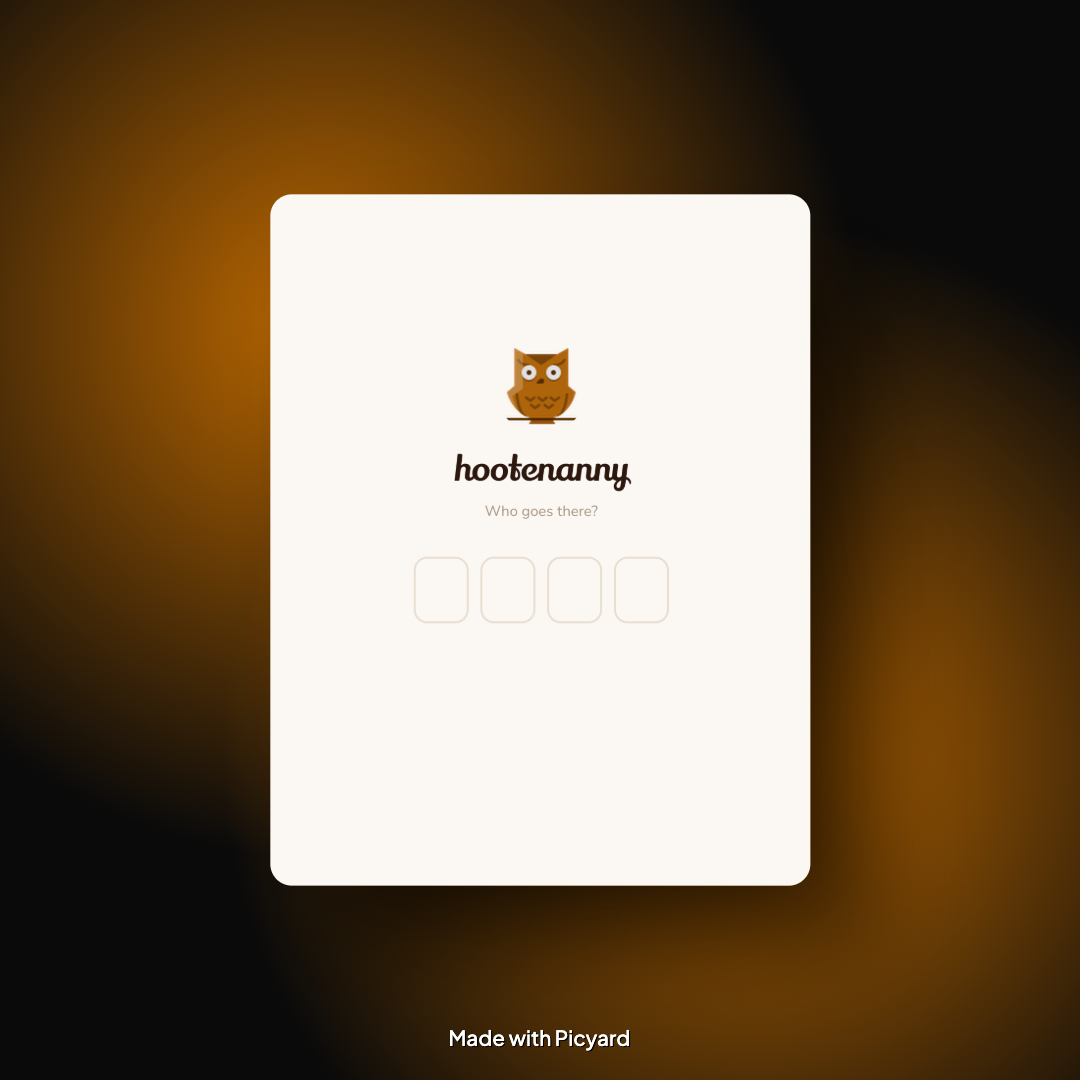
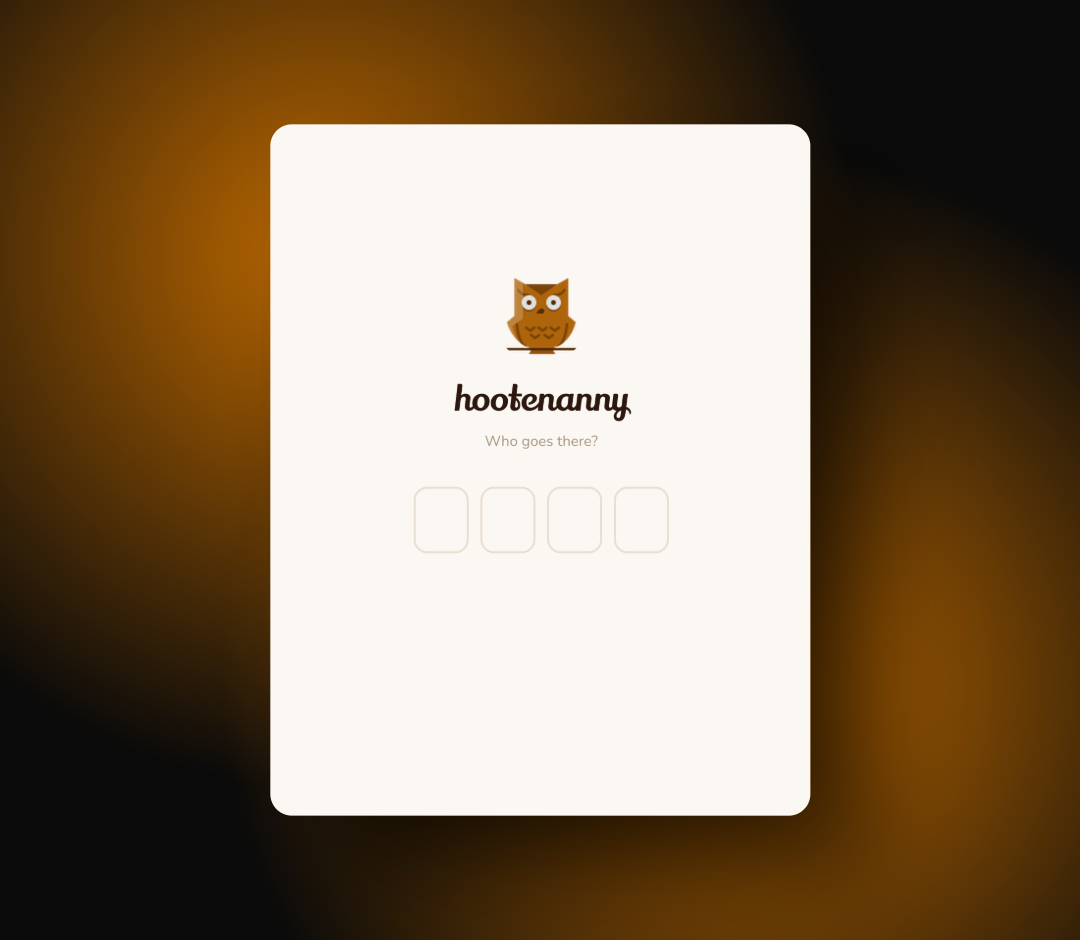
Rework Hootenanny page: tighter flow, captions, de-watermarked screenshots

diff --git a/src/app/projects/hootenanny/page.tsx b/src/app/projects/hootenanny/page.tsx
@@ -32,6 +32,25 @@ function TechTag({ children }: { children: React.ReactNode }) {
   )
 }
 
+function Screenshot({
+  src,
+  alt,
+  caption,
+}: {
+  src: typeof eventPreviewImg
+  alt: string
+  caption: string
+}) {
+  return (
+    <figure className="mt-8">
+      <Image src={src} alt={alt} className="mx-auto w-full max-w-md rounded-2xl" />
+      <figcaption className="mt-3 text-center text-sm text-zinc-500 dark:text-zinc-500">
+        {caption}
+      </figcaption>
+    </figure>
+  )
+}
+
 export default function Hootenanny() {
   return (
     <Container className="mt-9 sm:mt-16">
@@ -41,18 +60,16 @@ export default function Hootenanny() {
         </h1>
         <p className="mt-6 text-base text-zinc-600 dark:text-zinc-400">
           A playful event invitation web app inspired by Apple Invites. Spin up
-          a beautiful invite in under a minute, share a link, and watch RSVPs
-          roll in, with no accounts, no app store, and no fuss.
+          a beautiful invite in under a minute, share a link, and watch the
+          RSVPs roll in &mdash; no accounts, no app store, no fuss.
         </p>
       </header>
 
-      <div className="mt-12 flex justify-center">
-        <Image
-          src={eventPreviewImg}
-          alt="A finished Hootenanny invite, ready to share"
-          className="w-full max-w-lg rounded-2xl"
-        />
-      </div>
+      <Screenshot
+        src={eventPreviewImg}
+        alt="A finished Hootenanny invite, ready to share"
+        caption="A finished invite, ready to share."
+      />
 
       <div className="mt-16">
         <section>
@@ -61,10 +78,10 @@ export default function Hootenanny() {
           </h2>
           <p className="mt-4 text-base leading-7 text-zinc-600 dark:text-zinc-400">
             Apple Invites is beautiful, but it only works if every guest has an
-            iPhone, and I wanted to send an invite to my daughter&apos;s dance
+            iPhone. I wanted to send an invite to my daughter&apos;s dance
             recital without worrying about who was on which platform. Most
-            alternatives are bloated with ads, upsells, or require guests to
-            create an account just to say &ldquo;yes, I&apos;ll be there.&rdquo;
+            alternatives are bloated with ads and upsells, or make guests create
+            an account just to say &ldquo;yes, I&apos;ll be there.&rdquo;
           </p>
           <p className="mt-4 text-base leading-7 text-zinc-600 dark:text-zinc-400">
             I wanted something tiny, warm, and personal. One link, one tap, done.
@@ -75,23 +92,37 @@ export default function Hootenanny() {
           <h2 className="text-2xl font-bold tracking-tight text-zinc-800 dark:text-zinc-100">
             How It Works
           </h2>
-          <p className="mt-4 text-base leading-7 text-zinc-600 dark:text-zinc-400">
-            I sign in with a PIN, pick a cover photo, fill out the basics
-            (date, venue, a short description), and get two shareable links: one
-            for guests to RSVP and one that&apos;s details-only. Guests open
-            the link on any device, see the invite, and respond with their name
-            and party size. Everything lands on a dashboard where I can see who
-            is going, who is on the fence, and who can&apos;t make it.
-          </p>
-        </section>
 
-        <div className="mt-12 flex justify-center">
-          <Image
+          <p className="mt-4 text-base leading-7 text-zinc-600 dark:text-zinc-400">
+            Creating an event takes about a minute. I sign in with a PIN, pick a
+            cover photo, and fill in the basics &mdash; date, venue, a short
+            description &mdash; previewing the invite as I build it.
+          </p>
+          <Screenshot
             src={createImg}
-            alt="Creating and previewing an event in Hootenanny"
-            className="w-full max-w-lg rounded-2xl"
+            alt="Building and previewing an event in Hootenanny"
+            caption="Build the event and preview it as you go."
           />
-        </div>
+
+          <p className="mt-8 text-base leading-7 text-zinc-600 dark:text-zinc-400">
+            When it&apos;s ready, I get two shareable links: an RSVP link for the
+            guests I want to hear back from, and a details-only link for casual
+            announcements. Guests open either one on any device &mdash; no
+            account, no download &mdash; and respond with their name and party
+            size.
+          </p>
+
+          <p className="mt-4 text-base leading-7 text-zinc-600 dark:text-zinc-400">
+            Every response lands on a host dashboard, where I can see who&apos;s
+            coming, who&apos;s on the fence, and who can&apos;t make it, along
+            with party sizes, notes, and contact info.
+          </p>
+          <Screenshot
+            src={rsvpsImg}
+            alt="The host dashboard showing live RSVPs and the guest list"
+            caption="Track every RSVP from one dashboard."
+          />
+        </section>
 
         <section className="mt-12">
           <h2 className="text-2xl font-bold tracking-tight text-zinc-800 dark:text-zinc-100">
@@ -143,13 +174,24 @@ export default function Hootenanny() {
           </div>
         </section>
 
-        <div className="mt-12 flex justify-center">
-          <Image
-            src={rsvpsImg}
-            alt="The host dashboard showing live RSVPs and the guest list"
-            className="w-full max-w-lg rounded-2xl"
+        <section className="mt-12">
+          <h2 className="text-2xl font-bold tracking-tight text-zinc-800 dark:text-zinc-100">
+            Design
+          </h2>
+          <p className="mt-4 text-base leading-7 text-zinc-600 dark:text-zinc-400">
+            The name came first. &ldquo;Hootenanny&rdquo; is an old-fashioned
+            word for an informal gathering, and it begged for an owl mascot. The
+            whole UI is built around a warm brown, cream, and tan palette that
+            feels more like a handwritten note than a SaaS dashboard. The
+            wordmark is set in Lily Script One, the body in Nunito, and little
+            owl puns turn up in empty states and confirmation screens.
+          </p>
+          <Screenshot
+            src={signInImg}
+            alt="The Hootenanny sign-in screen with its owl mascot"
+            caption="The owl says hello at sign-in."
           />
-        </div>
+        </section>
 
         <section className="mt-12">
           <h2 className="text-2xl font-bold tracking-tight text-zinc-800 dark:text-zinc-100">
@@ -162,27 +204,6 @@ export default function Hootenanny() {
             <TechTag>Netlify</TechTag>
             <TechTag>Netlify Edge Functions</TechTag>
             <TechTag>PWA / Service Worker</TechTag>
-          </div>
-        </section>
-
-        <section className="mt-12">
-          <h2 className="text-2xl font-bold tracking-tight text-zinc-800 dark:text-zinc-100">
-            Design
-          </h2>
-          <p className="mt-4 text-base leading-7 text-zinc-600 dark:text-zinc-400">
-            The name came first. &ldquo;Hootenanny&rdquo; is an old-fashioned
-            word for an informal gathering, and it begged for an owl mascot. I
-            built the whole UI around a warm brown, cream, and tan palette that
-            feels more like a handwritten note than a SaaS dashboard. The
-            wordmark is set in Lily Script One, the body is Nunito, and little
-            owl puns show up in empty states and confirmation screens.
-          </p>
-          <div className="mt-8 flex justify-center">
-            <Image
-              src={signInImg}
-              alt="The Hootenanny sign-in screen with its owl mascot"
-              className="w-full max-w-lg rounded-2xl"
-            />
           </div>
         </section>
       </div>
